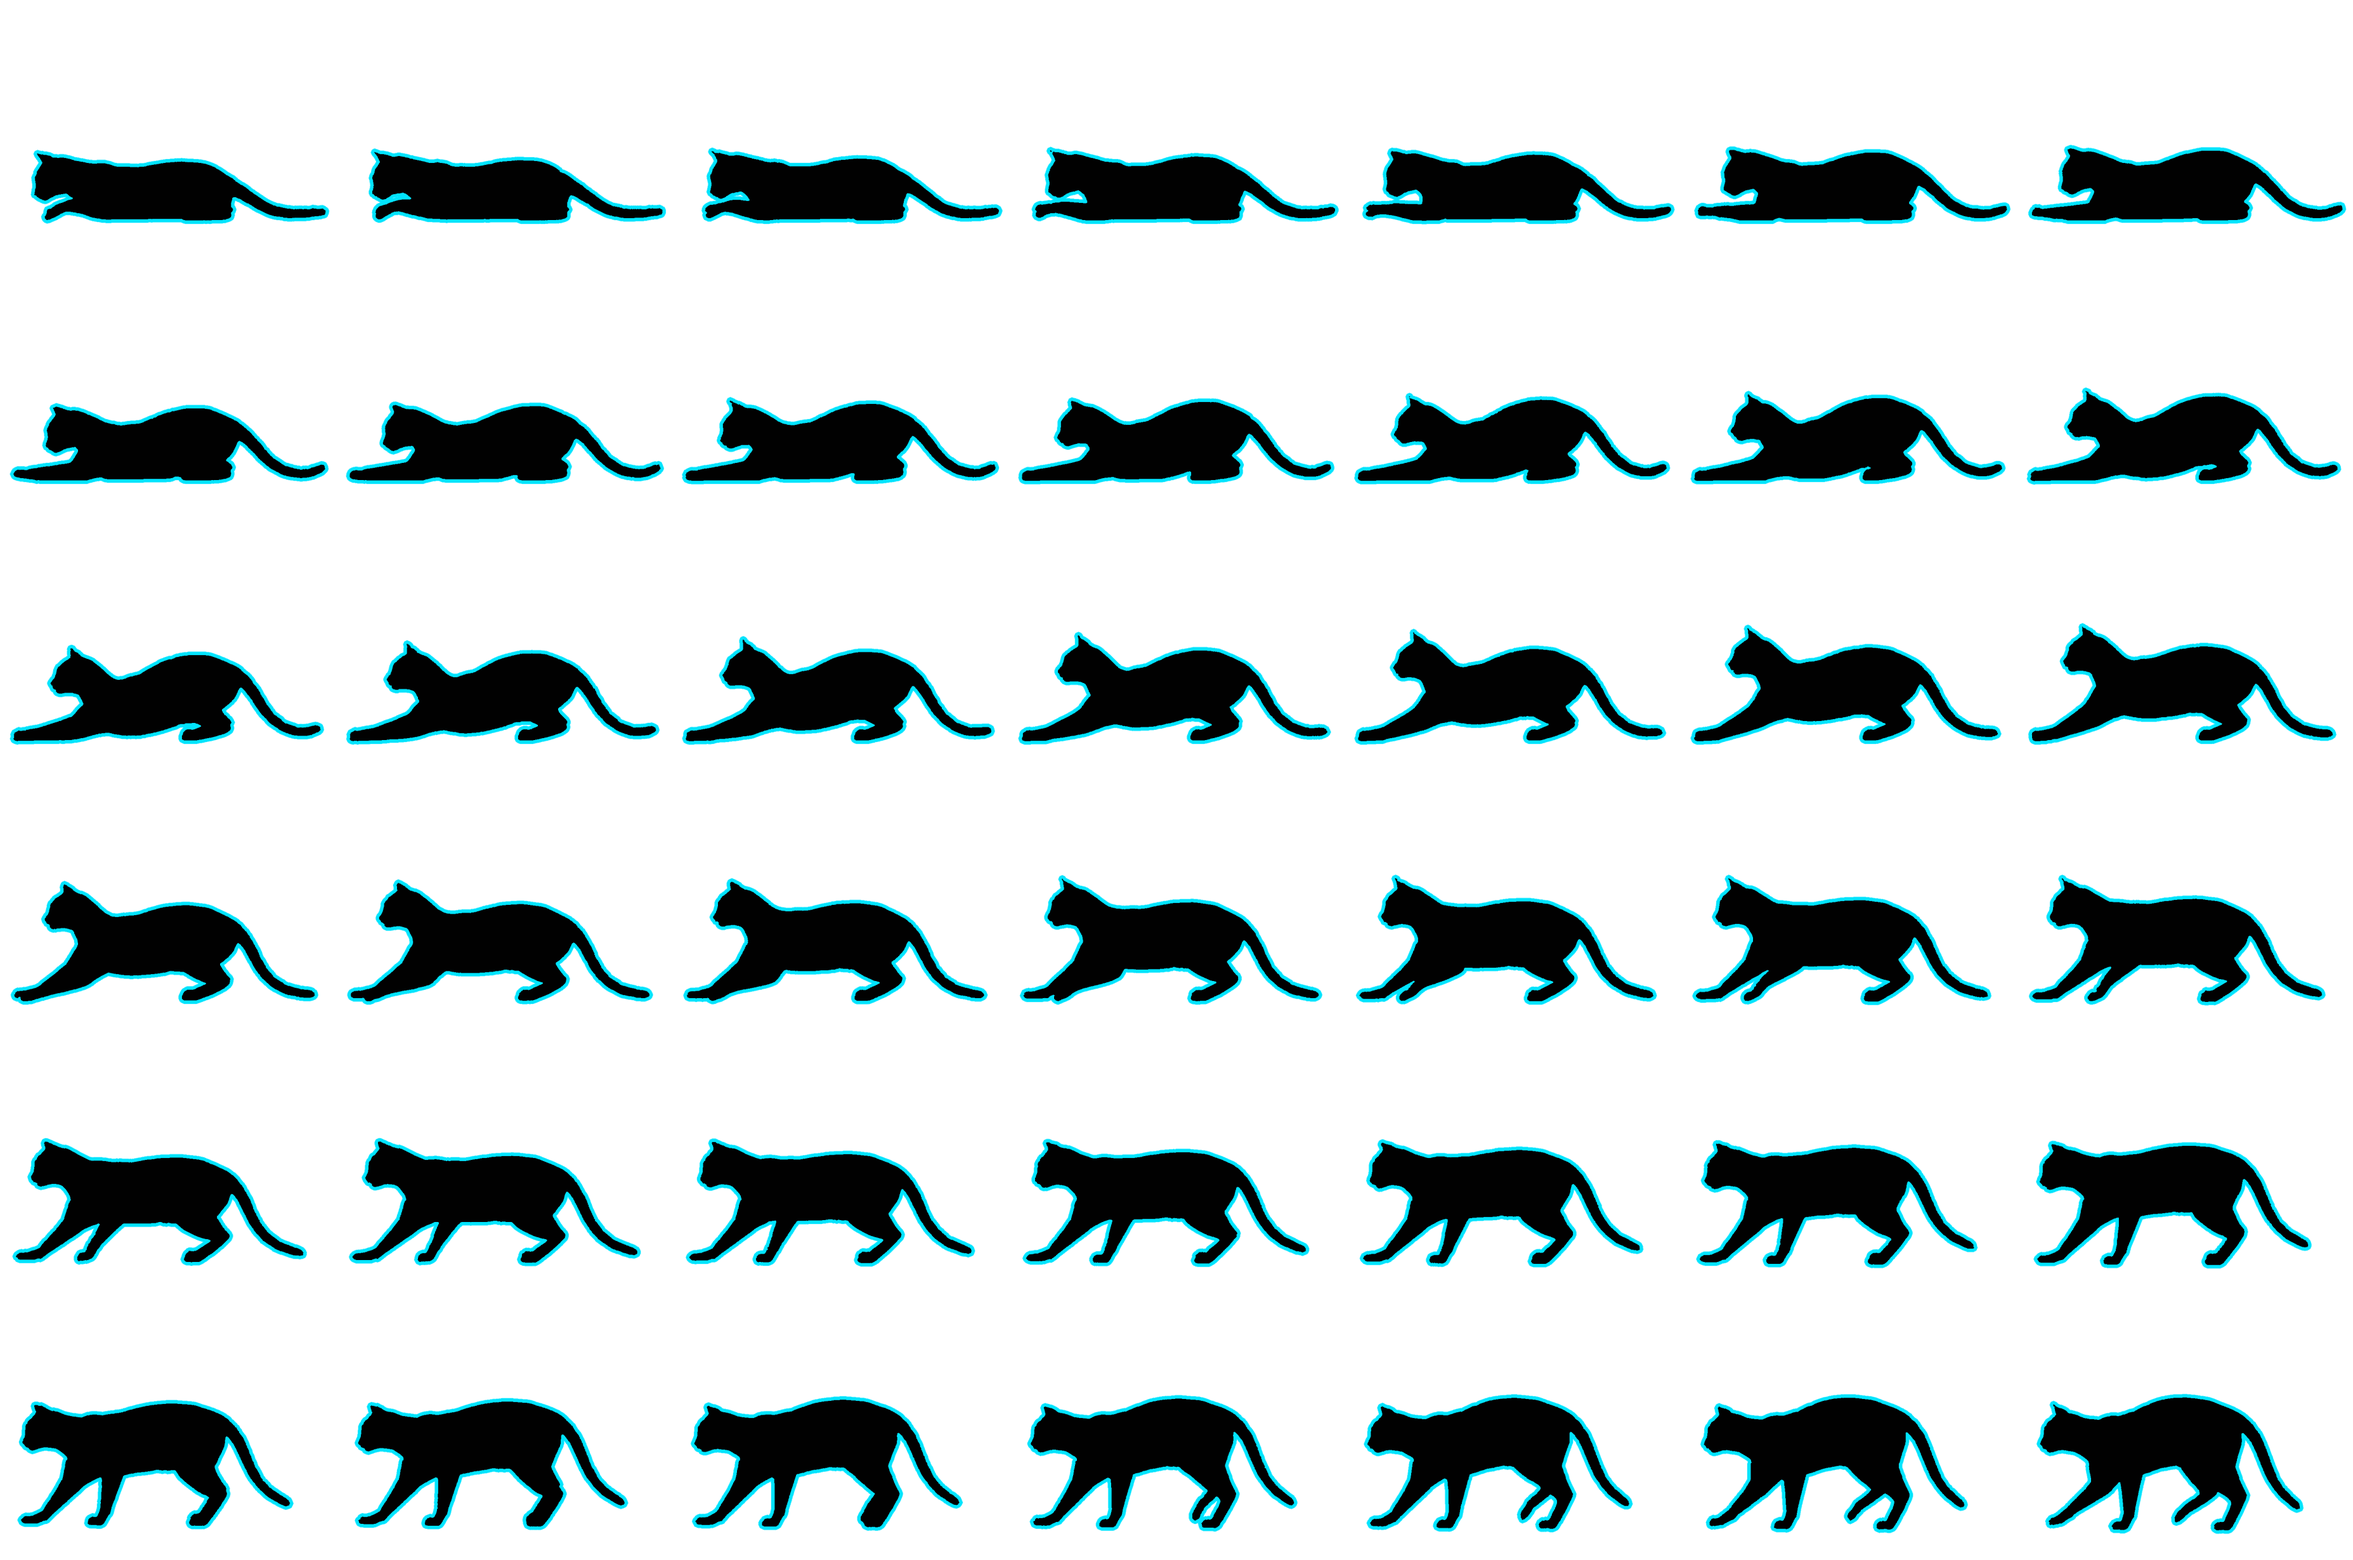
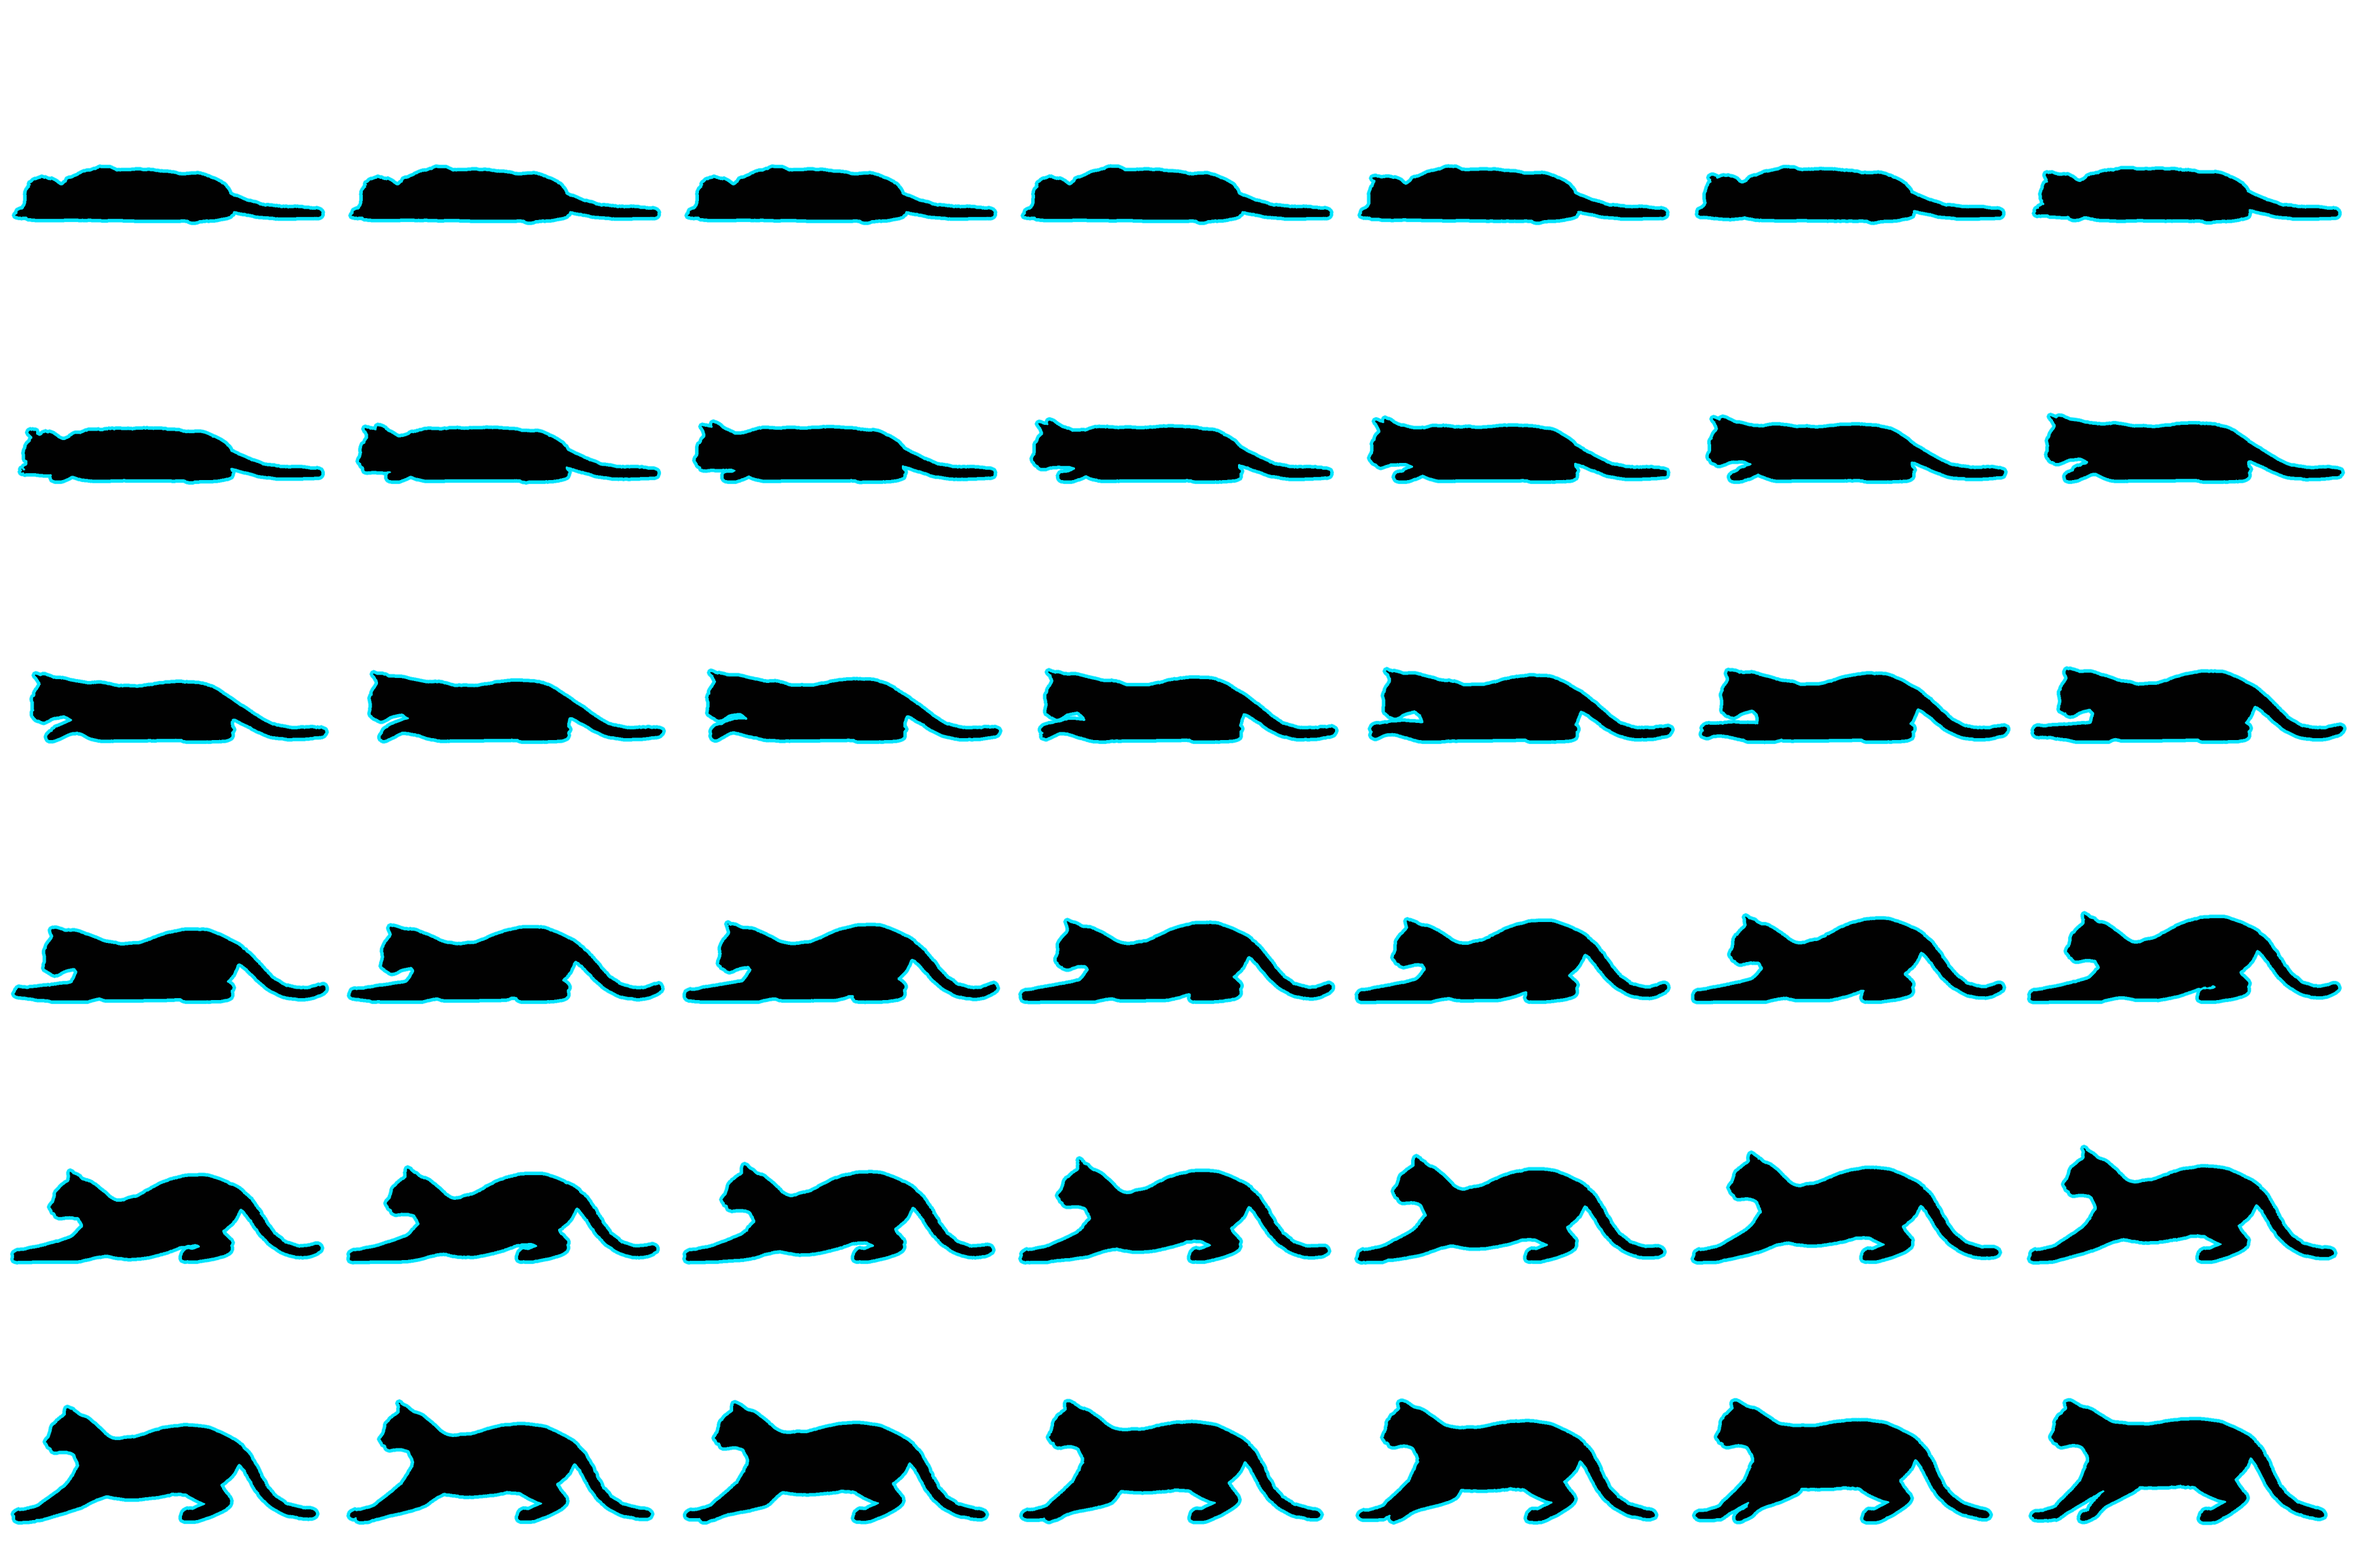
clock: roll clip uses the 30s Gemini video (jump to its final steady walk for the exit), v36
Claude-Session: https://claude.ai/code/session_011dJr2cTpcATSR3bPd249g1

diff --git a/clock/big.html b/clock/big.html
@@ -142,23 +142,25 @@ canvas{display:block; position:absolute; inset:0}
   // 立ち止まる動き: 動画のコマ95(歩きのループの2番目と同じ姿勢)〜177(ループの12番目と同じ姿勢)。speed は各コマで進む距離(動画の画素)、stop は完全に止まるコマ
   const CALL = { n: 83, per: 42, cols: 7, cw: 476, ch: 362, scale: 0.6, pad: 8, ox: 323, oy: 89, loopIn: 2, loopOut: 12, stop: 31,
     speed: [11.55,11.55,11.76,11.97,11.97,11.76,11.55,10.92,10.29,9.66,9.45,9.24,9.03,8.61,7.77,6.93,5.67,4.62,4.41,4.62,4.41,4.62,4.62,3.99,3.57,3.15,2.73,2.52,2.1,1.68,1.26,0.84,0.42,0.21,0.0,0.0,0.0,0.0,0.0,0.0,0.0,0.0,0.0,0.0,0.0,0.0,0.0,0.0,0.0,0.0,0.0,0.0,0.21,0.42,1.05,1.68,2.52,3.15,3.99,4.41,5.25,5.88,6.72,7.35,7.98,7.98,8.19,8.61,9.45,10.08,11.34,12.18,12.6,12.81,13.23,13.44,13.86,14.49,14.91,15.12,15.12,15.12,14.91] };
-  // ごろん: 同じ動画の続き。立ち止まり、体を丸め、寝転がって転がり、起き上がって歩き出す(3本目の動画のコマ95〜469、375コマ。止まっている間は同じ絵を使い回す。cell[n] = n番目の動画コマに使う絵の番号)。24コマ/秒、9枚のシートに分けてある。
+  // ごろん: 同じ動画の続き。立ち止まり、体を丸め、寝転がって転がり、起き上がって歩き出す(4本目の30秒動画。コマ95〜470で起き上がって歩き出し、同じ動画の最後の一定の歩き(676〜687)へジャンプしてつなぎ、そのあとは 669〜687 の19コマをループして出ていく。止まっている間は同じ絵を使い回す。cell[n] = n番目の動画コマに使う絵の番号)。24コマ/秒、9枚のシートに分けてある。
   // 止まるまでの速さは CALL と同じ(同じ動画の前半)、止まっている間は0、最後は STEP まで加速して、歩きのループへ blend コマかけて溶かしてつなぐ
-  const ROLL = { n: 375, per: 42, cols: 7, cw: 530, ch: 410, scale: 0.6, pad: 8, ox: 285, oy: 23, stop: 31, exit: { a: 349, len: 25 },
-    cell: [0,1,2,3,4,5,6,7,8,9,10,11,12,13,14,15,16,17,18,19,20,21,22,23,24,25,26,27,28,29,30,31,32,33,34,35,36,37,38,39,40,41,42,43,44,45,46,47,48,49,50,51,52,53,54,55,56,57,58,59,60,61,62,63,64,65,66,67,68,69,70,71,72,73,74,75,76,77,78,79,80,81,82,83,84,85,86,87,88,89,90,91,92,93,94,95,96,97,98,99,100,101,102,103,104,105,106,107,108,109,110,111,112,113,114,115,116,117,118,119,120,121,122,123,124,125,126,127,128,129,130,131,132,133,134,135,136,137,138,139,140,141,142,143,144,145,146,147,148,149,150,151,152,153,154,155,156,157,158,159,160,161,162,163,164,165,166,167,168,169,170,171,172,173,174,175,176,177,178,179,180,181,182,183,184,185,186,187,188,189,190,191,192,193,194,194,195,195,196,196,196,196,196,196,196,196,196,196,196,197,197,197,197,198,199,200,201,202,203,204,205,206,207,208,209,210,211,212,213,214,215,216,217,218,219,220,221,222,223,224,225,226,227,228,229,230,231,232,233,234,235,236,237,238,239,240,241,242,243,244,245,246,247,248,249,250,251,252,253,254,255,256,257,258,259,260,261,262,263,264,265,266,267,268,269,270,271,272,273,274,275,276,277,278,279,280,281,282,283,284,285,286,287,288,289,290,291,292,293,294,295,296,297,298,299,300,301,302,303,304,305,306,307,308,309,310,311,312,313,314,315,316,317,318,319,320,321,322,323,324,325,326,327,328,329,330,331,332,333,334,335,336,337,338,339,340,341,342,343,344,345,346,347,348,349,350,351,352,353,354,355,356,357,358,359] };
+  const ROLL = { n: 388, per: 42, cols: 7, cw: 530, ch: 410, scale: 0.6, pad: 8, ox: 285, oy: 23, stop: 31,
+    cell: [0,1,2,3,4,5,6,7,8,9,10,11,12,13,14,15,16,17,18,19,20,21,22,23,24,25,26,27,28,29,30,31,32,33,34,35,36,37,38,39,40,41,42,43,44,45,46,47,48,49,50,51,52,53,54,55,56,57,58,59,60,61,62,63,64,65,66,67,68,69,70,71,72,73,74,75,76,77,78,79,80,81,82,83,84,85,86,87,88,89,90,91,92,93,94,95,96,97,98,99,100,101,102,103,104,105,106,107,108,109,110,111,112,113,114,115,116,117,118,119,120,121,122,123,124,125,126,127,128,129,130,131,132,133,134,135,136,137,138,139,140,141,142,143,144,145,146,147,148,149,150,151,152,153,154,155,156,157,158,159,160,161,162,163,164,165,166,167,168,169,170,171,172,173,174,175,176,177,178,179,180,181,182,183,184,185,186,187,188,189,190,191,192,193,194,195,196,197,198,199,200,201,202,203,204,205,206,207,208,209,210,211,212,213,214,215,216,217,218,219,220,221,222,223,224,225,226,227,228,229,230,231,232,233,234,235,236,237,238,239,240,241,242,243,244,245,246,247,248,249,250,251,252,253,254,255,256,257,258,259,260,261,262,263,264,265,266,267,268,269,270,271,272,273,274,275,276,277,278,279,280,281,282,283,284,285,286,287,288,289,290,291,292,293,294,295,296,297,298,299,300,301,302,303,304,305,306,307,308,309,310,311,312,313,314,315,316,317,318,319,320,321,322,323,324,325,326,327,328,329,330,331,332,333,334,335,336,337,338,339,340,341,342,343,344,345,346,347,348,349,350,351,352,353,354,355,356,357,358,359,360,361,362,363,364,365,366,367,368,369,370,371,372,373,374,375,383,384,385,386,387,388,389,390,391,392,393,394],
+    exitCells: [376,377,378,379,380,381,382,383,384,385,386,387,388,389,390,391,392,393,394] };
     // 速さは、動画の猫の「地面についている足」が1コマに動く距離を測ったもの(足が滑らないように)。止まるまでは CALL と同じ減速(同じ動画の前半)、伏せて這うあたりは遅く、立ち上がって歩き出すまでは少しずつ速く、歩きは約12.5
   const RSP = [[130,0],[350,0],[353,2],[358,3.5],[364,4],[368,5.5],[379,5.8],[385,3.8],[391,2],[396,0],[424,0],[427,3.5],[430,5],[433,7.8],[436,9.5],[439,11.2],[442,13],[446,13.2],[452,12.8],[470,12.2]];
   ROLL.speed = Array.from({ length: ROLL.n }, (_, i) => {
     if (i < 35) return CALL.speed[i];
+    if (i >= 376) return 12.2 + (9.5 - 12.2) * Math.min(1, (i - 375) / 12);   // 最後の歩きの映像へジャンプした後の12コマで、出ていく歩きの速さまで合わせる
     const f = 95 + i; let j = 0; while (j < RSP.length - 2 && RSP[j + 1][0] < f) j++;
     const [f0, v0] = RSP[j], [f1, v1] = RSP[j + 1]; return Math.max(0, v0 + (v1 - v0) * Math.min(1, Math.max(0, (f - f0) / (f1 - f0))));
   });
-  ROLL.exitStep = 12.5;   // 出ていくときの歩きの速さ(動画の画素/コマ)
+  ROLL.exitStep = 9.5;   // 出ていくときの歩きの速さ(動画の画素/コマ)
   [CALL, ROLL].forEach(c => { c.cum = [0]; c.speed.forEach(v => c.cum.push(c.cum[c.cum.length - 1] + v)); });   // 先頭から、そのコマまでに進む距離
   let catOn = get('cat', '1') === '1', catEvery = Number(get('catEvery', '300')) || 300;
   const ROLLP = 0.2;   // ふだんの横切りのうち、ごろんになる割合
   let cat = null, catTimer = 0;
-  const NROLL = 9, sheets = { walk: null, c1: null, c2: null, roll: [] };
+  const NROLL = 10, sheets = { walk: null, c1: null, c2: null, roll: [] };
   const reduceMotion = matchMedia('(prefers-reduced-motion: reduce)').matches;
   const timeKey = () => Math.floor(Date.now() / (secs ? 1000 : 60000));
   function renderLayer(){ ctx = lctx; paint(); ctx = mainCtx; }
@@ -215,7 +217,7 @@ canvas{display:block; position:absolute; inset:0}
         } else {                                                                                    // 3) そのまま歩いて出ていく
           const e2 = el - tw - tc;
           cx = xcs + dir * (K.cum[K.n] * kv + (K.exitStep ? K.exitStep / STEP : 1) * v0 * e2); f = (K.loopOut + 1 + Math.floor(e2 * FPS)) % WALK.n; dj = K.joinDx || 0;
-          if (K.exit) { const k = K.cell[K.exit.a + (1 + Math.floor(e2 * FPS)) % K.exit.len]; spec = K; img = sheets.roll[Math.floor(k / K.per)]; f = k % K.per; dj = 0; }   // ごろんは、動画の最後の歩き(25コマ)をそのままループして出ていく
+          if (K.exitCells) { const k = K.exitCells[Math.floor(e2 * FPS) % K.exitCells.length]; spec = K; img = sheets.roll[Math.floor(k / K.per)]; f = k % K.per; dj = 0; }   // ごろんは、動画の最後の歩き(25コマ)をそのままループして出ていく
           if (dir > 0 ? cx - dwW / 2 > W : cx + dwW / 2 < 0) { endCat(); return; }
         }
       }

diff --git a/clock/sw.js b/clock/sw.js
@@ -1,5 +1,5 @@
-const CACHE = 'clock-v35';
-const FILES = ['./', './index.html', './big.html', './cat-walk.png', './cat-call1.png', './cat-call2.png', './roll1.png', './roll2.png', './roll3.png', './roll4.png', './roll5.png', './roll6.png', './roll7.png', './roll8.png', './roll9.png', './manifest.webmanifest', './icon-180.png', './icon-192.png', './icon-512.png', './icon-maskable-512.png'];
+const CACHE = 'clock-v36';
+const FILES = ['./', './index.html', './big.html', './cat-walk.png', './cat-call1.png', './cat-call2.png', './roll1.png', './roll2.png', './roll3.png', './roll4.png', './roll5.png', './roll6.png', './roll7.png', './roll8.png', './roll9.png', './roll10.png', './manifest.webmanifest', './icon-180.png', './icon-192.png', './icon-512.png', './icon-maskable-512.png'];
 const FONT_HOSTS = ['fonts.googleapis.com', 'fonts.gstatic.com'];
 // 更新のとき、ブラウザが持っている古いコピーを使わず、必ずサーバーから取り直す
 self.addEventListener('install', e => e.waitUntil(

diff --git a/clock/index.html b/clock/index.html
@@ -296,7 +296,7 @@ dialog.dlg .times{flex-wrap:wrap}
       </section>
     </div>
     <button class="btn primary" value="close">とじる</button>
-    <p class="ver">バージョン 35</p>
+    <p class="ver">バージョン 36</p>
   </form>
 </dialog>
 </div>
